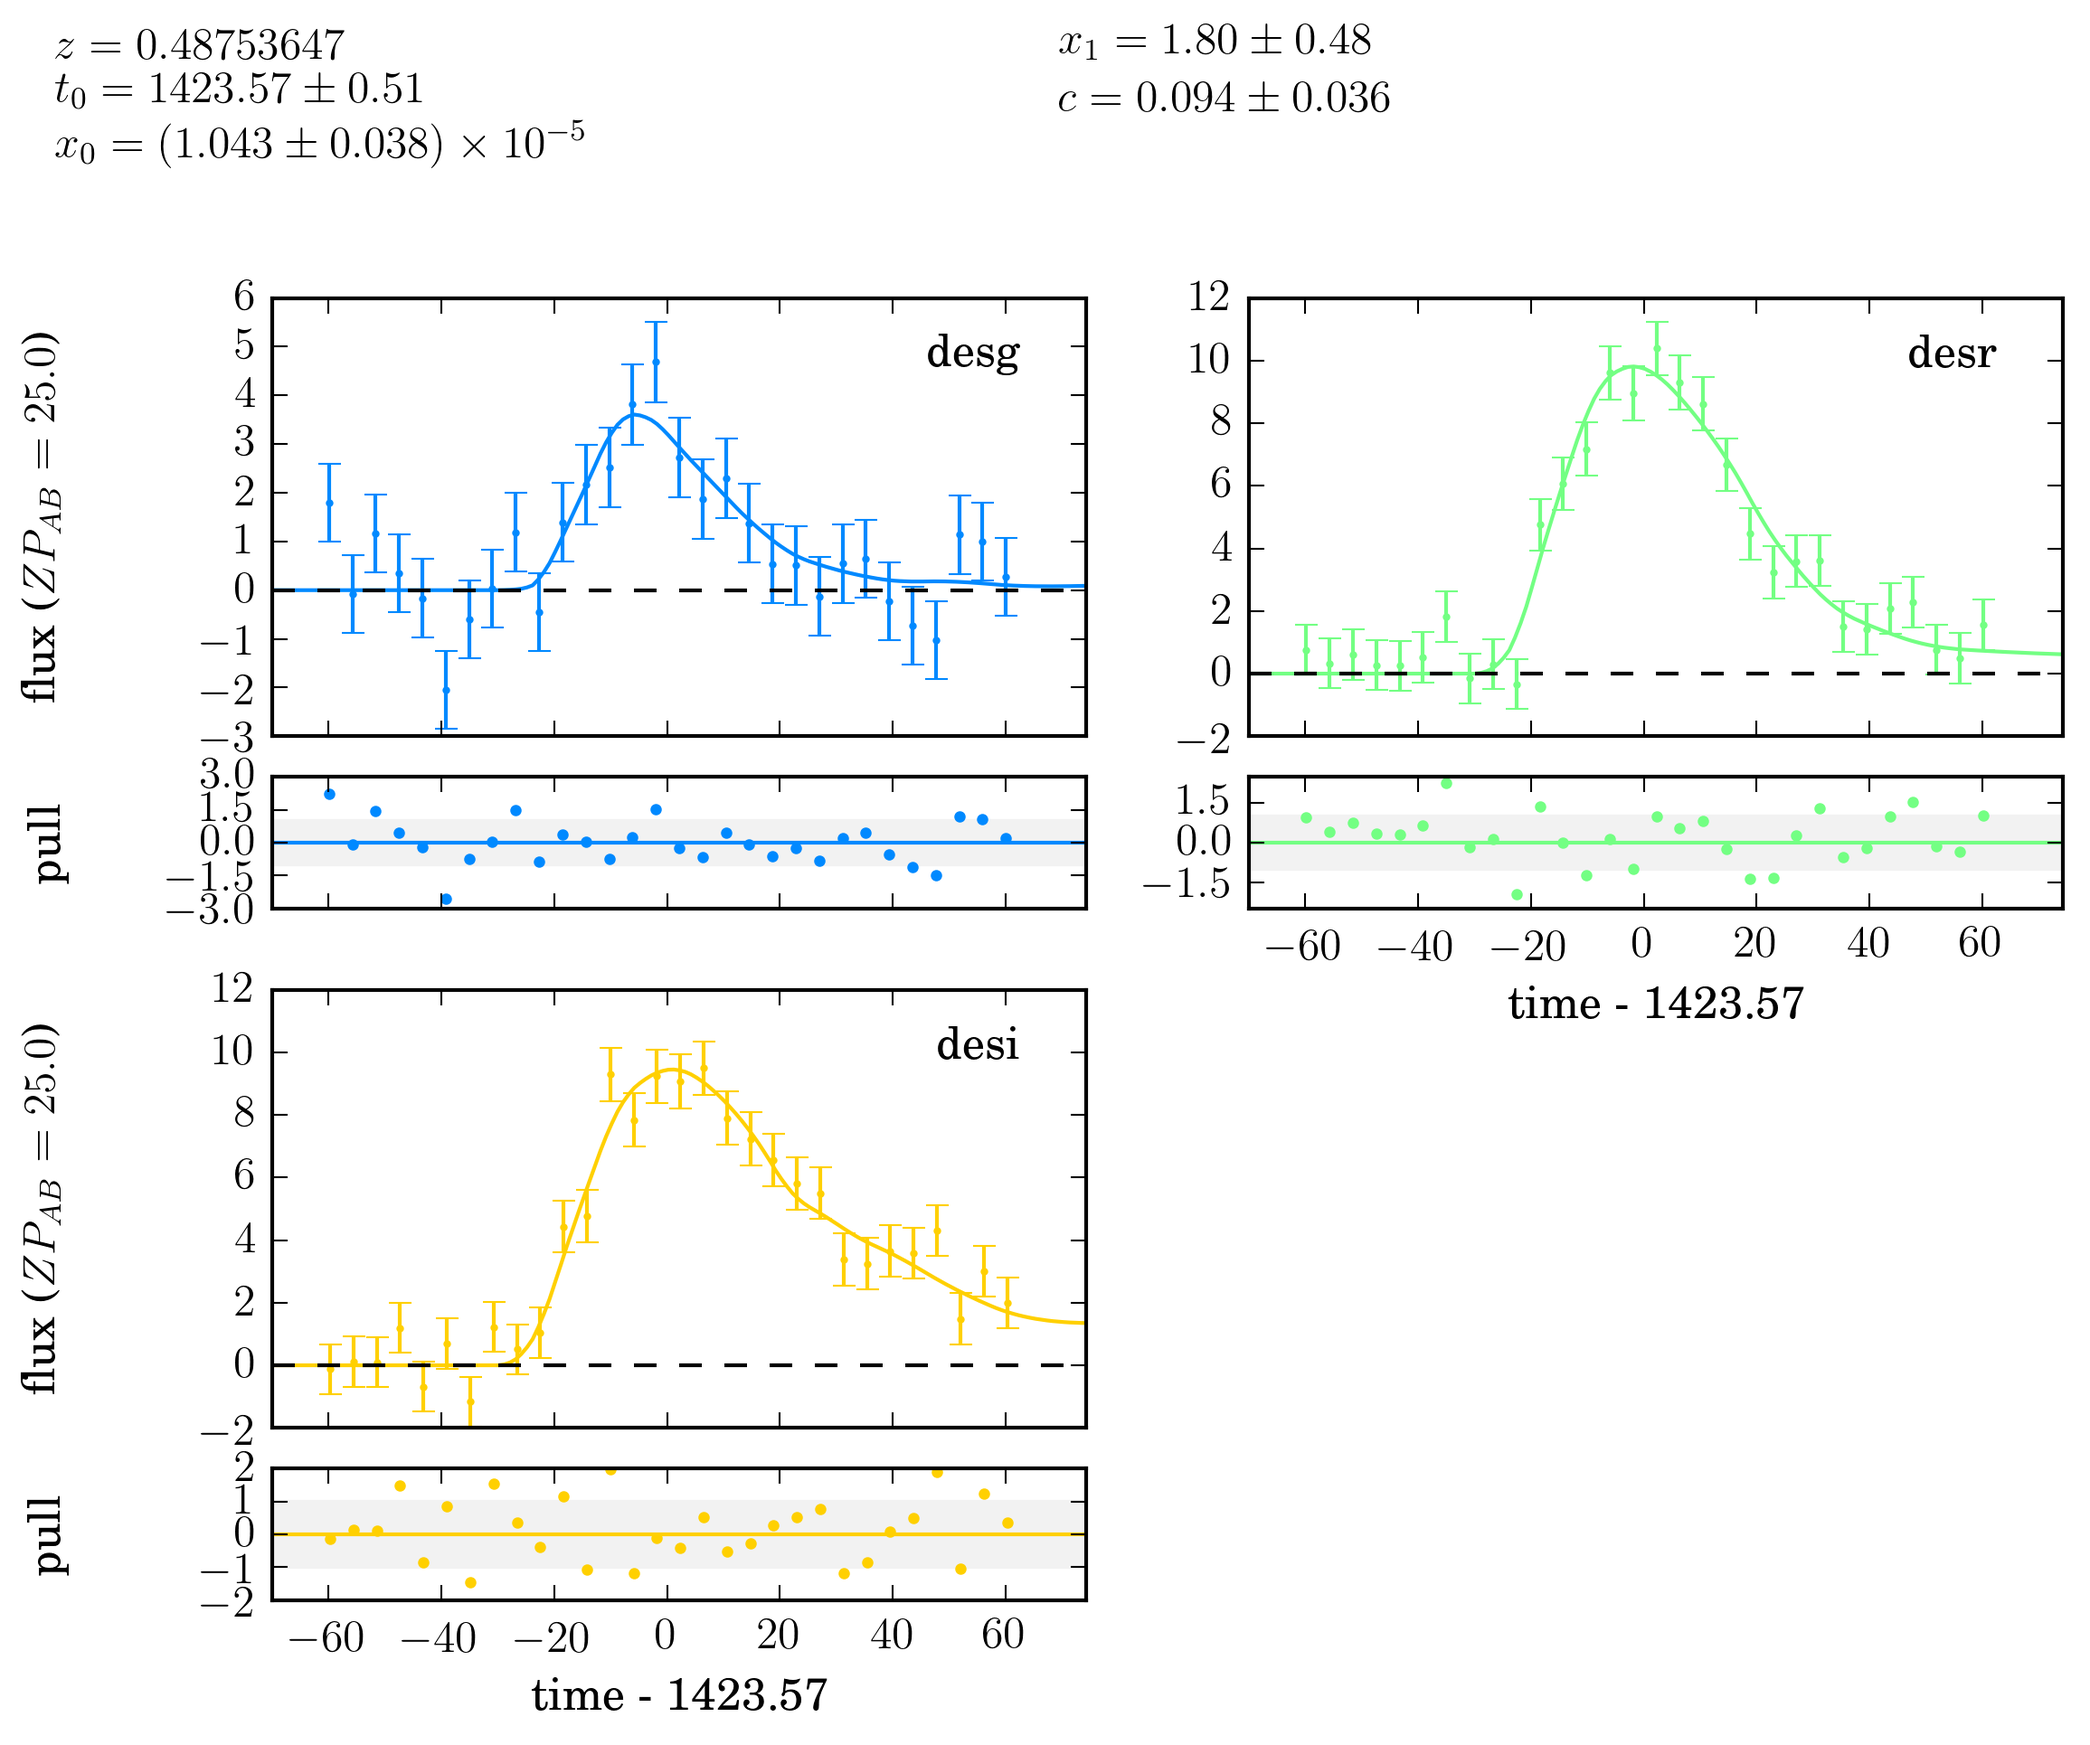
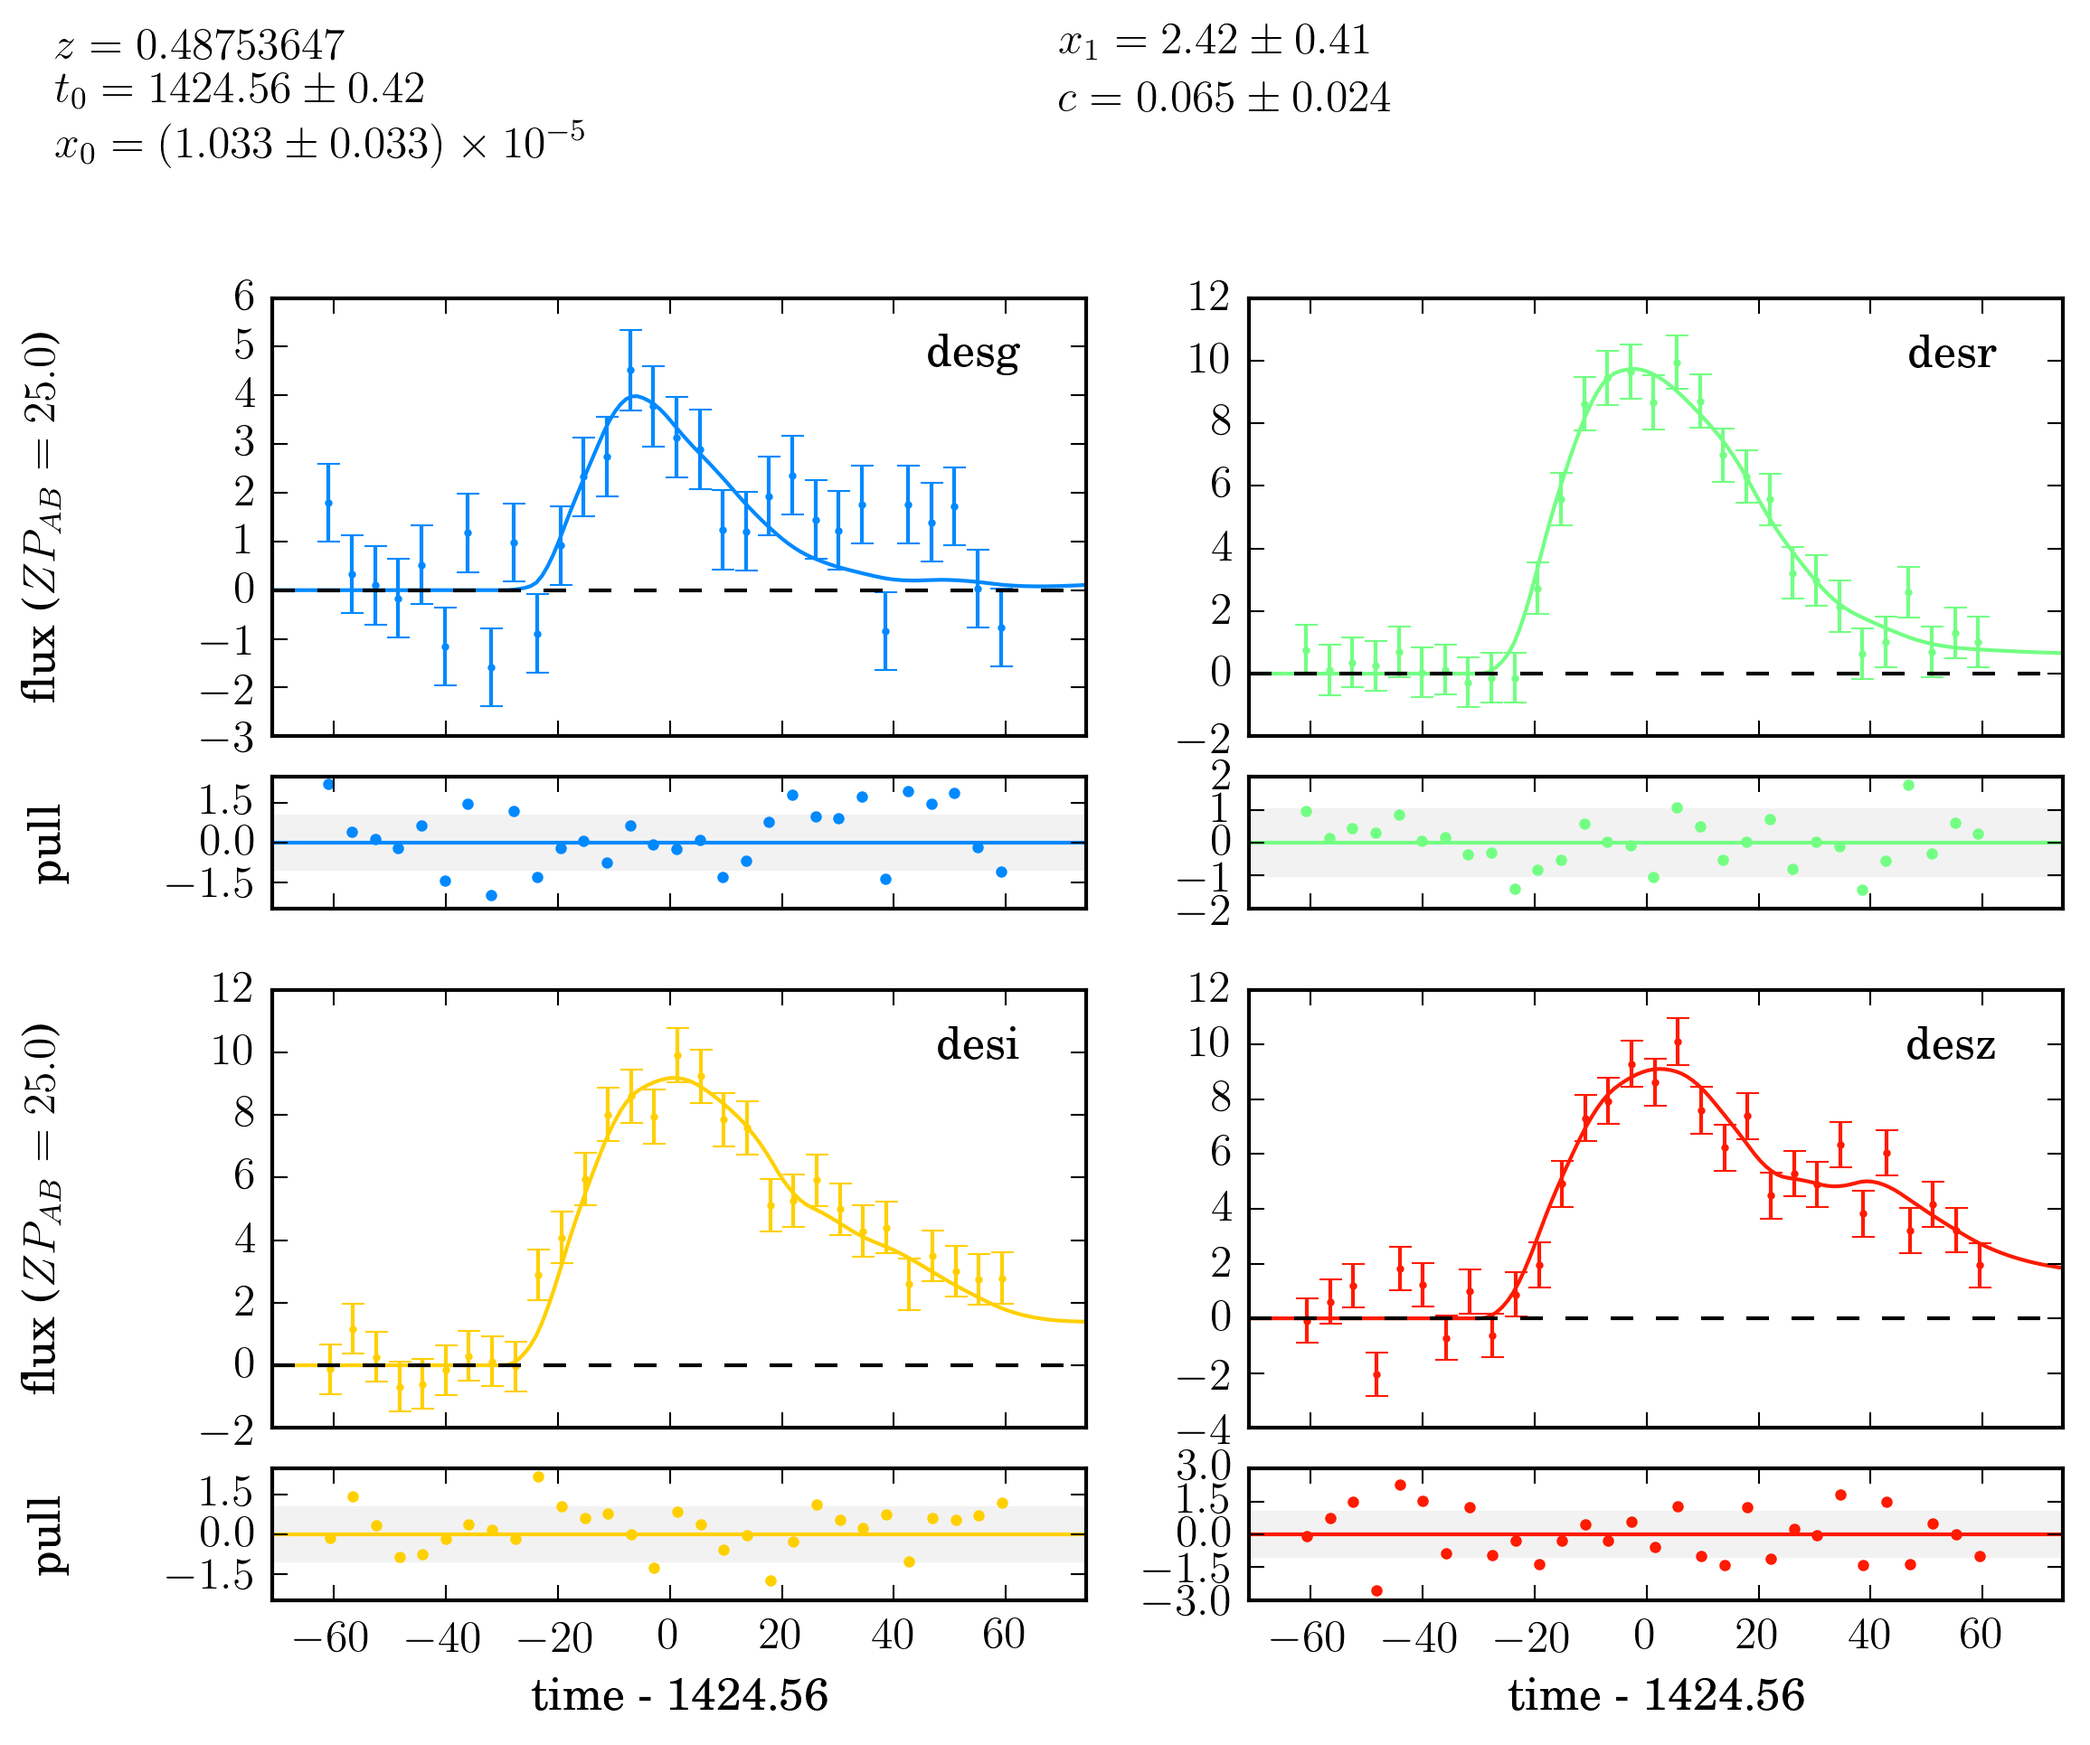
Updating bias

diff --git a/dessn/investigations/gaussianity/ston_and_redshift.py b/dessn/investigations/gaussianity/ston_and_redshift.py
@@ -27,8 +27,7 @@ def realise_light_curve(seed):
     times = np.array([[t, t + 0.05, t + 0.1, t + 0.2] for t in ts]).flatten()
     bands = [b for t in ts for b in ['desg', 'desr', 'desi', 'desz']]
     gains = np.ones(times.shape)
-    # skynoise = np.random.uniform(low=50, high=400) * np.ones(times.shape)
-    skynoise = np.random.uniform(low=20, high=800) * np.ones(times.shape)
+    skynoise = np.random.uniform(low=50, high=300) * np.ones(times.shape)
     zp = 30 * np.ones(times.shape)
     zpsys = ['ab'] * times.size
 
@@ -39,7 +38,7 @@ def realise_light_curve(seed):
                  'zp': zp,
                  'zpsys': zpsys})
 
-    model = sncosmo.Model(source='salt2')
+    model = sncosmo.Model(source='salt2-extended')
     p = {'z': z, 't0': t0, 'x0': x0, 'x1': x1, 'c': c}
     model.set(z=z)
     lc = sncosmo.realize_lcs(obs, model, [p])[0]
@@ -48,13 +47,12 @@ def realise_light_curve(seed):
 
 
 def get_gaussian_fit(z, t0, x0, x1, c, lc, seed, temp_dir, interped, type="iminuit"):
-    model = sncosmo.Model(source='salt2')
+    model = sncosmo.Model(source='salt2-extended')
     p = {'z': z, 't0': t0, 'x0': x0, 'x1': x1, 'c': c}
     model.set(**p)
 
-    correct_model = sncosmo.Model(source='salt2')
+    correct_model = sncosmo.Model(source='salt2-extended')
     correct_model.set(**p)
-    print(type)
     if type == "iminuit":
         res, fitted_model = sncosmo.fit_lc(lc, model, ['t0', 'x0', 'x1', 'c'],
                                            guess_amplitude=False, guess_t0=False)
@@ -81,7 +79,7 @@ def get_gaussian_fit(z, t0, x0, x1, c, lc, seed, temp_dir, interped, type="iminu
 
 def get_posterior(z, t0, lc, seed, temp_dir, interped):
     my_model = PerfectRedshift([lc], [z], t0, name="posterior%d" % seed)
-    sampler = EnsembleSampler(temp_dir=temp_dir, num_burn=1000, num_steps=2500)
+    sampler = EnsembleSampler(temp_dir=temp_dir, num_burn=500, num_steps=1500)
     c = my_model.fit(sampler)
     chain = c.chains[-1]
     parameters = c.parameters[-1]
@@ -147,25 +145,26 @@ def get_result(temp_dir, seed, method="iminuit"):
         interp = generate_and_return()
         z, t0, x0, x1, c, ston, lc = realise_light_curve(seed)
 
-        if ston < 5:
+        if ston < 5 or ston > 10:
             np.save(save_file, np.array([]))
             return None
 
         try:
             chainf, parametersf, means, cov = get_gaussian_fit(z, t0, x0, x1, c, lc, seed,
                                                                temp_dir, interp, type=method)
-        except Exception:
-            np.save(save_file, np.array([]))
-            return None
+            if method in ["iminuit"]:
+                chain, parameters = get_posterior(z, t0, lc, seed, temp_dir, interp)
+            else:
+                chain = chainf
+                parameters = parametersf
+                chainf = np.random.multivariate_normal(means, cov, size=int(1e6))
+                chainf, _ = add_mu_to_chain(interp, chainf, parameters[:-1])
 
-        if not is_fit_good(t0, x0, x1, c, means, cov):
-            np.save(save_file, np.array([]))
-            return None
+            assert is_fit_good(t0, x0, x1, c, means, cov)
+            assert not is_unconstrained(chain, parameters)
 
-        chain, parameters = get_posterior(z, t0, lc, seed, temp_dir, interp)
-
-        unconstrained = is_unconstrained(chain, parameters)
-        if unconstrained:
+        except Exception as e:
+            print(e)
             np.save(save_file, np.array([]))
             return None
 
@@ -204,15 +203,12 @@ if __name__ == "__main__":
     if not os.path.exists(temp_dir):
         os.makedirs(temp_dir)
 
-    get_result(temp_dir, 161)
-
-    exit()
-    n = 600
+    n = 500
     res = Parallel(n_jobs=4, max_nbytes="20M", verbose=100, batch_size=1)(delayed(get_result)(
         temp_dir, i) for i in range(n))
     res = np.array([r for r in res if r is not None])
     s = res[:, 6]
-    res = res[s > 5, :]
+    res = res[(s > 5) & (s < 10), :]
 
     seeds = res[:, 0]
     z = res[:, 1]
@@ -231,27 +227,23 @@ if __name__ == "__main__":
         m = polyfit2d(z, s, diffmu, order=3)
         zz = polyval2d(xx, yy, m)
     else:
-        zz = griddata((z, s), adiffmu, (xx, yy), method="nearest")
+        zz = griddata((z, s), diffmu, (xx, yy), method="nearest")
     # Plot
     fig, ax = plt.subplots()
 
-    h = ax.contourf(xx, yy, zz, 30, cmap='viridis')
-    ax.scatter(z, s, c=diffmu, s=30, cmap='viridis')
+    vmin = diffmu.min()
+    vmax = diffmu.max()
+    print(vmin, vmax)
+    h = ax.contourf(xx, yy, zz, 30, cmap='viridis', vmin=vmin, vmax=vmax)
+    ax.scatter(z, s, c=diffmu, s=30, cmap='viridis', vmin=vmin, vmax=vmax)
     if True:
         for i, zp, sp in zip(seeds, z, s):
             ax.text(zp, sp, "%d" % i, alpha=0.3)
 
     ax.set_ylim(5, 10)
-    # ax.set_xlim(z.min(), z.max())
+    ax.set_xlim(z.min(), z.max())
     plt.colorbar(h)
     ax.set_xlabel("$z$")
     ax.set_ylabel("$S/N$")
+    fig.savefig(os.path.dirname(__file__) + "/output/bias.png", dpi=300, bbox_inches="tight", transparent=True)
     plt.show()
-
-    #
-    # h = ax.contourf(zz, ss, np.abs(interped), 30, cmap='viridis', vmin=0.0)
-
-    # ax.set_ylim(2, 10)
-    # ax.plot(z, s, 'k.', alpha=0.3)
-    # plt.colorbar(h)
-    # plt.show()

diff --git a/dessn/investigations/gaussianity/model.py b/dessn/investigations/gaussianity/model.py
@@ -94,7 +94,7 @@ class LightCurves(ParameterObserved):
 class LikelihoodPerfect(Edge):
     def __init__(self, z):
         super().__init__(["lc"], ["x0", "x1", "c", "t0"])
-        self.model = sncosmo.Model(source='salt2')
+        self.model = sncosmo.Model(source='salt2-extended')
         self.model.set(z=z[0])
 
     def get_log_likelihood(self, data):
@@ -108,7 +108,7 @@ class LikelihoodPerfect(Edge):
 class LikelihoodImperfect(Edge):
     def __init__(self):
         super().__init__(["lc"], ["x0", "x1", "c", "t0", "z"])
-        self.model = sncosmo.Model(source='salt2')
+        self.model = sncosmo.Model(source='salt2-extended')
 
     def get_log_likelihood(self, data):
         self.model.set(x0=data["x0"], x1=data["x1"], t0=data["t0"], c=data["c"], z=data["z"][0])
@@ -119,6 +119,13 @@ class LikelihoodImperfect(Edge):
 class PerfectRedshift(Model):
     def __init__(self, lightcurves, redshift, t0, name="Perfect Redshift"):
         super().__init__(name)
+        model = sncosmo.Model(source='salt2-extended')
+        model.set(z=redshift[0])
+        for i, lc in enumerate(lightcurves):
+            lc = sncosmo.photdata.standardize_data(lc)
+            lc = sncosmo.photdata.normalize_data(lc)
+            lc = sncosmo.fitting.cut_bands(lc, model)
+            lightcurves[i] = lc
         self.add(Stretch())
         self.add(Colour())
         self.add(Time(t0))
@@ -131,6 +138,13 @@ class PerfectRedshift(Model):
 class ImperfectRedshift(Model):
     def __init__(self, lightcurves, redshift, t0, name="Imperfect Redshift"):
         super().__init__(name)
+        model = sncosmo.Model(source='salt2-extended')
+        model.set(z=redshift[0])
+        for i, lc in enumerate(lightcurves):
+            lc = sncosmo.photdata.standardize_data(lc)
+            lc = sncosmo.photdata.normalize_data(lc)
+            lc = sncosmo.fitting.cut_bands(lc, model)
+            lightcurves[i] = lc
         self.add(Stretch())
         self.add(Colour())
         self.add(Time(t0))

diff --git a/dessn/investigations/gaussianity/__init__.py b/dessn/investigations/gaussianity/__init__.py
@@ -55,8 +55,8 @@ where :math:`m_B^*` is calculated using ``sncosmo``. Using this relationship, an
 the nuisance parameter :math:`M` to the other side, we can convert our multi-dimensional
 posterior surface into a single dimension, and then check for any biases in the mean and
 variance of the :math:`\mu+M` distribution. Doing this for the simple example above gives
-us the distributions shown below, which have :math:`\Delta (\mu+M) = 0.002`
-and :math:`\Delta (\sigma_{\mu+M}) = -0.0007`, which is a negligible change for cosmology.
+us the distributions shown below, which have :math:`\Delta (\mu+M) = 0.02`
+and :math:`\Delta (\sigma_{\mu+M}) = 0.004`.
 
 
 .. figure::     ../dessn/investigations/gaussianity/output/mu_simple.png
@@ -78,10 +78,22 @@ interest are the peak signal to noise of the light curves, the number of observa
 and when observations for a supernova begin (ie how early do we catch the supernova
 before peak) - in addition to stretch, colour and redshift.
 
-To simplify the problem, we assume consistent observations every three days.
+To simplify the problem, we assume consistent observations every five days.
 
 
+First, we generate supernova with stretch and colour set to zero, with observations
+starting well before the peak and spanning the lifetime of the supernova. We allow
+the redshift and sky flux to vary (ie redshift and signal-to-noise changes). The shift in
+the mean value for :math:`\mu+M` is shown in the figure below.
 
+
+.. figure::     ../dessn/investigations/gaussianity/output/bias.png
+    :align:     center
+    :width:     100%
+
+    The bias in :math:`\Delta \langle \mu + M \rangle` as a function of redshift
+    and signal to noise. Each sample is shown as a point, with a third order polynomial
+    fit to the surface shown as a contour.
 
 
 

diff --git a/dessn/investigations/gaussianity/simple.py b/dessn/investigations/gaussianity/simple.py
@@ -19,8 +19,8 @@ if __name__ == "__main__":
     num_obs = 30
     ts = np.linspace(t0 - 60, t0 + 60, num_obs)
 
-    times = np.array([[t, t + 0.1, t + 0.2] for t in ts]).flatten()
-    bands = [b for t in ts for b in ['desg', 'desr', 'desi']]
+    times = np.array([[t, t + 0.1, t + 0.2, t + 0.3] for t in ts]).flatten()
+    bands = [b for t in ts for b in ['desg', 'desr', 'desi', 'desz']]
     gains = np.ones(times.shape)
     skynoise = 80 * np.ones(times.shape)
     zp = 30 * np.ones(times.shape)
@@ -44,7 +44,7 @@ if __name__ == "__main__":
     surface = temp_dir + os.sep + "surfaces_simple.png"
     mu_simple = temp_dir + os.sep + "mu_simple.png"
     c = ChainConsumer()
-    my_model = PerfectRedshift(lcs, [z])
+    my_model = PerfectRedshift(lcs, [z], t0)
     sampler = EnsembleSampler(temp_dir=temp_dir, num_steps=10000)
     my_model.fit(sampler, chain_consumer=c)
     c.add_chain(np.random.multivariate_normal(res.parameters[1:], res.covariance, size=int(1e6)),
